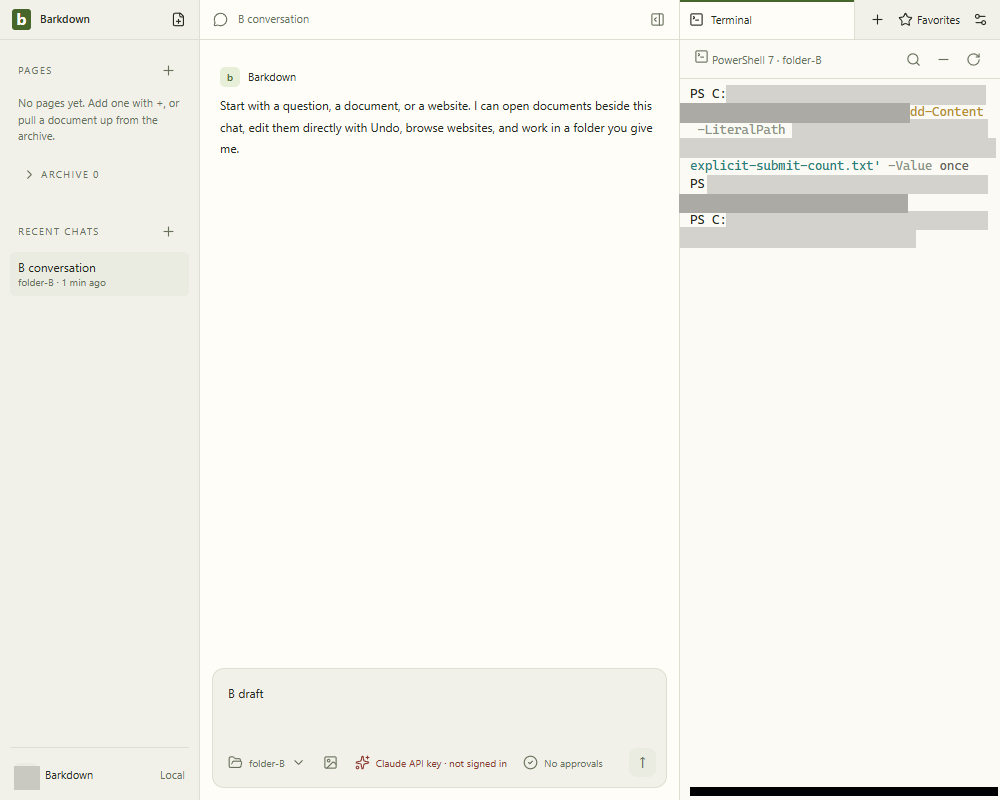
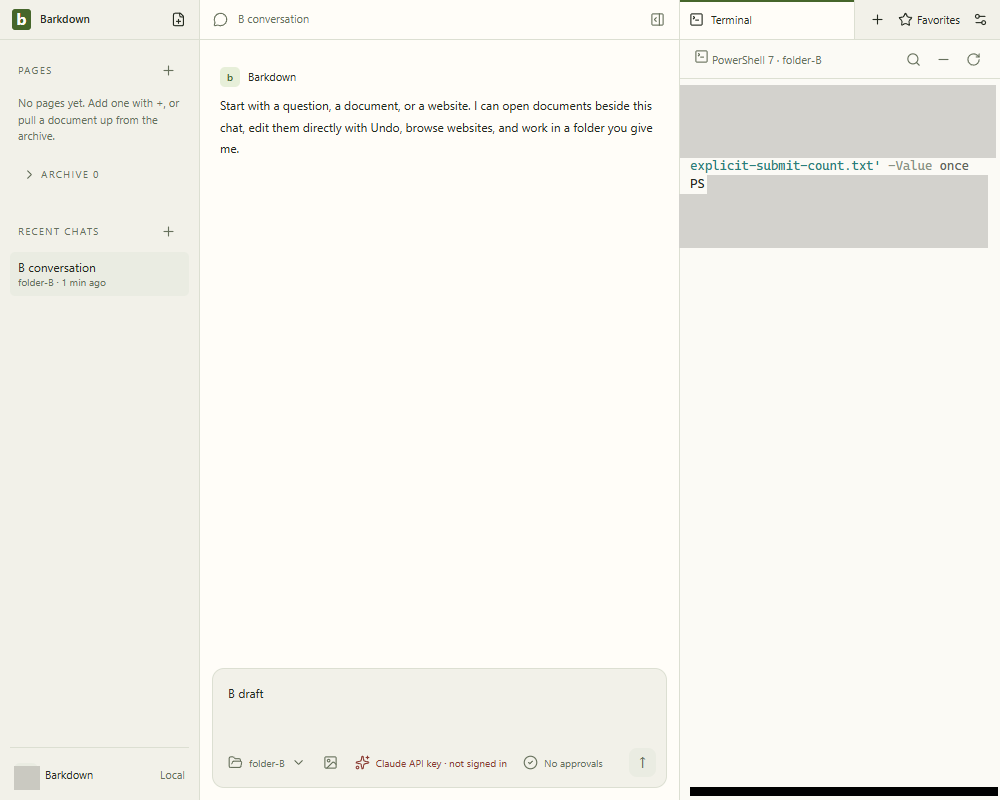
Pictures: overlapping boxes from every pass are painted as one box in one flat colour
In 22 PNG/GIF, recorded boxes that overlap on a frame (across the text, continuation and
name passes) are grouped, and each group is painted again as its bounding box in one flat
colour: 246 boxes in 96 groups. Nothing outside those boxes changed. The 2 records that pin
these pictures follow their new bytes.

Also: the undo-native-01 README gets the boxed-pictures line, and the note test's twin case
gets fixture rows (redaction-note.rows.test.mjs), one per condition.

Changed region(s): [[0.682, 0.2188, 0.992, 0.3125], [0.682, 0.0938, 1.0, 0.1875]]

diff --git a/docs/cycles/evidence/C106/undo-native-01/README.md b/docs/cycles/evidence/C106/undo-native-01/README.md
@@ -17,3 +17,5 @@ The [earlier raw-copy launch refusal](../undo-copy-01-refused/result.json) is re
 Other native stills: [before real Undo](clean-undo-before.png), [after Undo restart](clean-undo-restarted.png), [guard fixture before typing](later-human-before.png), [human text saved](later-human-human-protected.png), [human text after restart](later-human-restarted.png). All six stills,53 source frames and131 decoded GIF frames were inspected, including Undo/save intermediates. Original JPEGs and contact sheets are privately retained with public hashes.
 
 No installer execution, runtime adoption, real-library, Mac transfer, all-provider, crash or whole-stage acceptance is established. [Full current root verification](../verify-16/result.json) passes75,157ms. Publication and exact hosted join are the closing delivery gates.
+
+A name or file path in these pictures is hidden.
